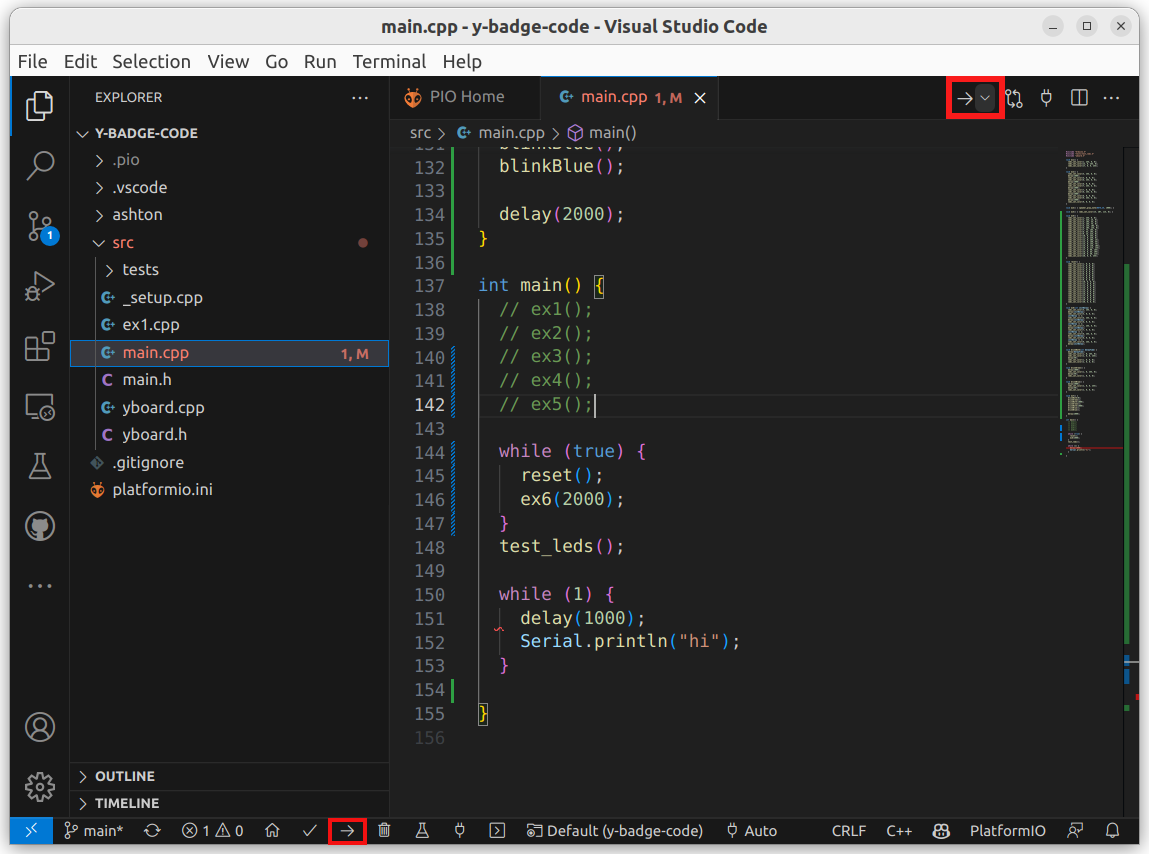
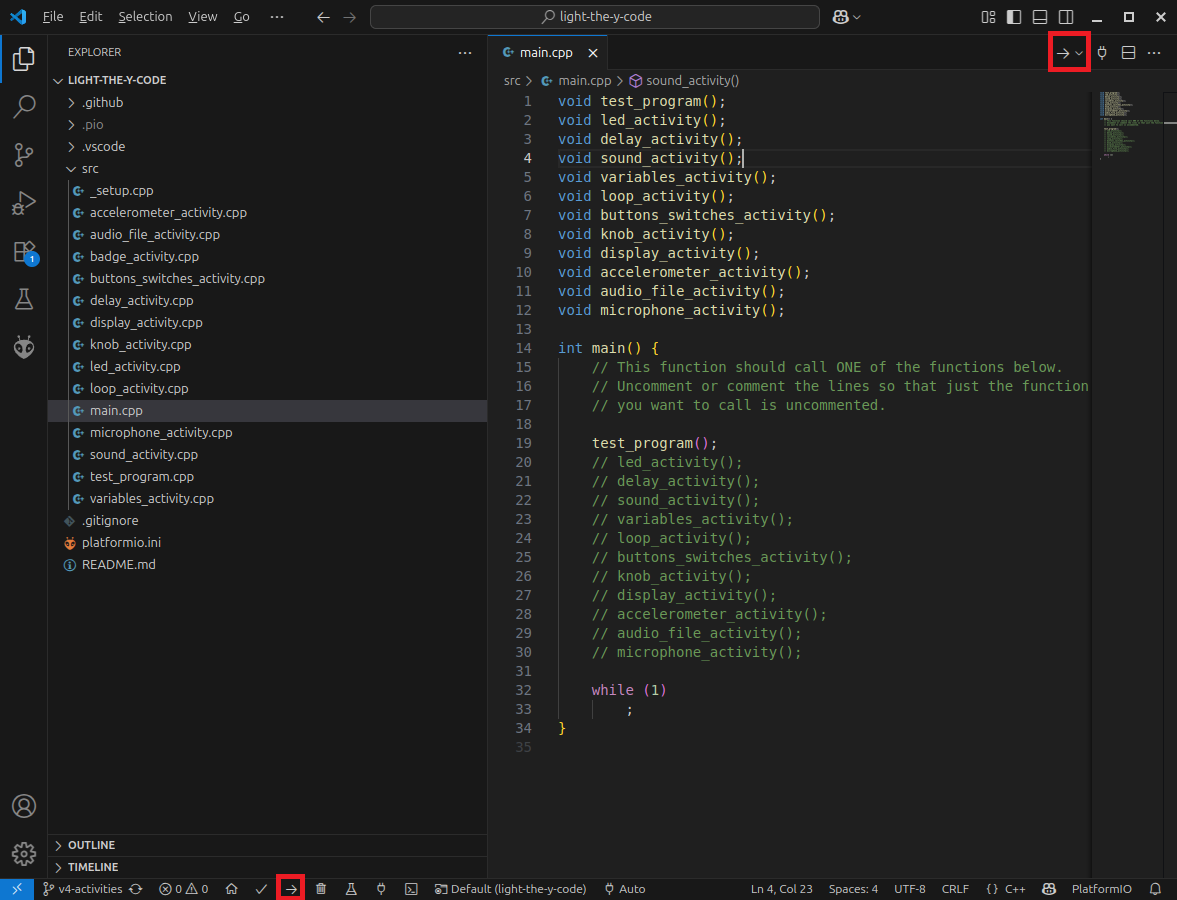
Update setup documentation and images for Y-Board - Change title in compiling.md to "Running Your First Program" - Add detailed instructions for opening files in Visual Studio Code - Rename section to "Compiling and Uploading" in compiling.md - Update demo instructions to include y-board-v4 in demos

Changed region(s): [[0.0, 0.0, 1.0, 1.0]]

diff --git a/_setup/compiling.md b/_setup/compiling.md
@@ -1,18 +1,29 @@
 ---
 layout: page
 toc: false
-title: "Running Code"
+title: "Running Your First Program"
+short_title: "Running Code"
 indent: 0
 number: 2
 icon: fa-solid fa-person-running
 ---
 
+## Opening Files in Visual Studio Code
 
+* Once you have Visual Studio Code running, click the file explorer icon in the top left (#1 in the image below).  This will open the file explorer on the left side of the screen.  From this you can view the files in your project.  
+<p align="center"> <img src="{% link media/vscode_layout.png %}" width="900" vspace="20px"></p>
+* Expand the `src` folder to see the files in your project. We will use a different file in this folder for each activity we do today.
+* Double-click on the file named `main.cpp` to open it in the editor.  This program contains the `main()` function, which is the first function that runs when you upload your code to the board. 
+* Look at the `main()` function (#2 in the image above).  You will see that right now it runs the function `test_program()`.  All of the other functions are commented out using `//` at the start of each line.  This means that they will not run when you upload your code to the board.  In later activities, you will come back to this file, comment out the `test_program()` function, and uncomment the activity function you want to run.  For now, leave it as is.
+
+
+
+
+## Compiling and Uploading
 In order to check that your code doesn't have any mistakes that will prevent it from running, it has to be checked by a special program called a *compiler*. The compiler takes the code you wrote and transforms it into instructions that the computer chip can understand.
 
-
-## Uploading
-In order to compile your code and upload it to the board, click the *right arrow* button at the bottom of the screen or select "Upload" from the dropdown in VS Code.
+You should now compile and upload the test program to your Y-Board:
+* Click the *right arrow* button at the bottom of the screen or select "Upload" from the dropdown in VS Code.
 <p align="center"> <img src="{% link media/compiling_code.png %}" width="900" vspace="20px"></p>
 
 
@@ -41,18 +52,12 @@ Another common error you might run into is when you misspell a function or varia
 Just because your code compiles without error, doesn't mean that it does what you are expecting.  Compiling and uploading without error just means that your code contains valid instructions for the computer to execute.  The instructions may not actually do what you are try to accomplish.
 
 ## What If My Board Isn't Working
-Sometimes your board might get stuck in a bad state, and either you won't be able to upload your code, or your code will upload but won't run.  
+Sometimes your board might get stuck in a bad state, and either you won't be able to upload your code.  If your board is stuck, you can reset it by following these steps:
 
-_Note: Before following the next steps to reset your board, make sure the problem isn't actually in your code! It's easy to think that the board isn't working when it's really a bug in your code that's causing it to get stuck.  A good thing to try is to turn an LED on or off at the start of your code to see if it works.  Also, double check `main.cpp` to make sure the correct function is being called._
+1. Turn off the **PWR** switch.
 
+1. While holding down the button labeled **BOOT**, turn on the **PWR** switch.
 
-If your board is stuck, you can reset it by following these steps:
+1. Let go of the **BOOT** button.
 
-
-1. Unplug the board from your computer.
-
-1. Hold down the button labeled "BOOT1" and the button labeled "RESET" at the same time, while plugging the board back into the computer.
-
-1. Let go of both buttons and wait 10-15 seconds before attempting to upload your code again.
-
-1. Repeat as needed.
+1. Try uploading your code again.

diff --git a/_setup/demos.md b/_setup/demos.md
@@ -38,7 +38,7 @@ We've created a **code repository** that stores the demo applications. You will 
 1. Enter the url `https://github.com/y-board/demos.git` and hit Enter \
 <img src="{% link media/vscode_gui_clone_demos.png %}" width="800" vspace="10px">
 
-1. A window will open and ask you to select the destination folder. Make sure you click "Home" on the left hand side of the window, then click the green "Select as Repository Destination" button \
+1. A window will open and ask you to select the destination folder. Make sure you click "Home" on the left hand side of the window, then click the "Select as Repository Destination" button \
 <img src="{% link media/select_destination_folder.png %}" width="800" vspace="10px">
 
 1. When asked if you want to open the project, click "Open"
@@ -50,7 +50,7 @@ We've created a **code repository** that stores the demo applications. You will 
 Once you have the demos repository open in VS Code, you can view the structure of the project and looks at the demos available.  Once you have decided on a demo to run, you will need to open the demo folder in its own VS Code window.  Follow the steps below to do this:
 
 1. Select the file *Explorer* button on the left toolbar
-1. Expand the `y-board-v2` or `y-board-v3` folder to view the demos available for your board.
+1. Expand the `y-board-v2`, `y-board-v3`, or `y-board-v4` folder to view the demos available for your board.
 1. Note the different folders inside your board folder.  Each folder contains a separate demo application.
 <img src="{% link media/demos_file_browser.png %}" width="800" vspace="10px">
 1. Once you have decided on a demo to run, click *File*->*Open Folder* and select the folder for the demo you want to run.

diff --git a/_setup/software_setup.md b/_setup/software_setup.md
@@ -7,6 +7,11 @@ number: 1
 icon: fa-solid fa-computer
 ---
 
+This page will help you get the software you need installed on your computer, and will help you get the starting code for your Y-Board.  Follow the steps below to get started.  If you are using the BYU lab computers, step 1 is already done, and step 2 might already be done as well.
+1. [Install Visual Studio Code](#install-vs-code).  This is the program we will use to write code for the Y-Board.
+1. [Install PlatformIO Extension in VS Code](#install-platformio-extension-in-vs-code). This will allow us to program our code onto the Y-Board.
+1. [Clone GitHub Repository](#clone-github-repository). This will give you the starting code for your Y-Board.
+
 ## Install VS Code
 
 ### Install VS Code on Linux
